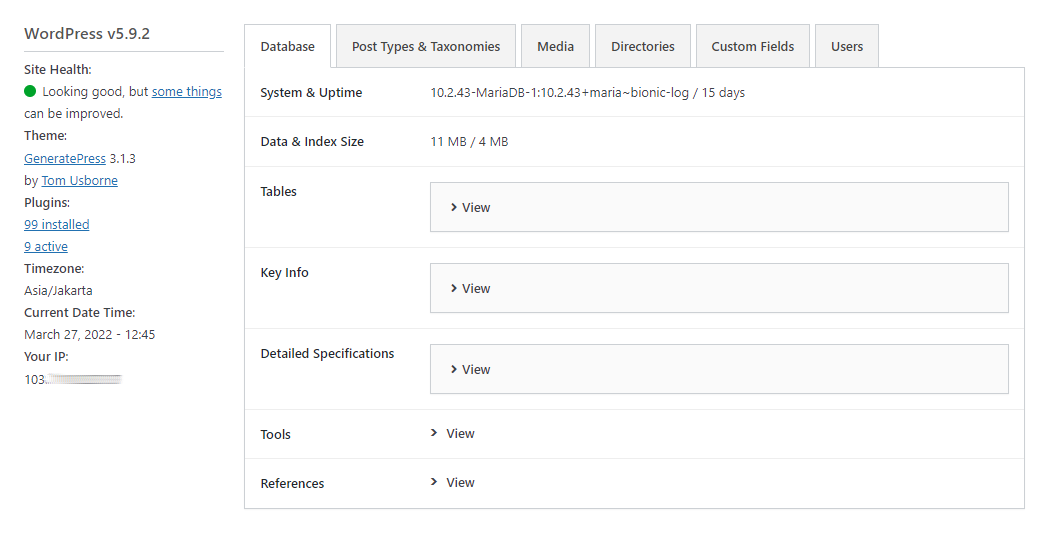
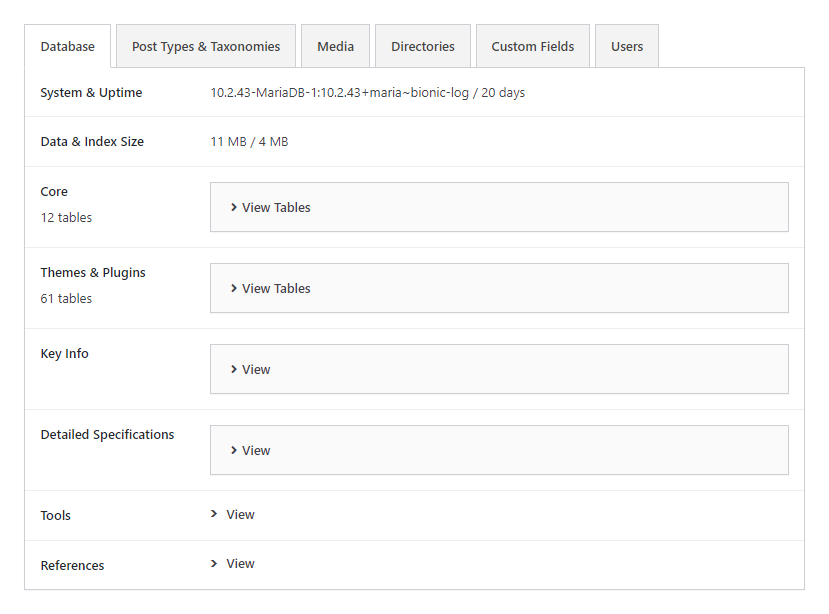
v2.2.0 release
Update screenshot-2.png

diff --git a/system-dashboard.php b/system-dashboard.php
@@ -16,7 +16,7 @@
  * Plugin Name:       System Dashboard
  * Plugin URI:        https://wordpress.org/plugins/system-dashboard/
  * Description:       Centralized dashboard to monitor various WordPress components, stats and data, including the server.
- * Version:           2.1.3
+ * Version:           2.2.0
  * Author:            Bowo
  * Author URI:        https://bowo.io
  * License:           GPL-2.0+
@@ -35,7 +35,7 @@ if ( ! defined( 'WPINC' ) ) {
  * Start at version 1.0.0 and use SemVer - https://semver.org
  * Rename this for your plugin and update it as you release new versions.
  */
-define( 'SYSTEM_DASHBOARD_VERSION', '2.1.3' );
+define( 'SYSTEM_DASHBOARD_VERSION', '2.2.0' );
 
 /**
  * The code that runs during plugin activation.

diff --git a/README.md b/README.md
@@ -5,7 +5,7 @@ Donate link: https://paypal.me/qriouslad
 Tags: system monitor, wordpress components, action filter hooks, server info, developer  
 Requires at least: 4.8  
 Tested up to: 5.9.2  
-Stable tag: 2.1.3  
+Stable tag: 2.2.0  
 Requires PHP: 5.6  
 License: GPLv2 or later  
 License URI: http://www.gnu.org/licenses/gpl-2.0.html
@@ -43,7 +43,8 @@ To preview the module screenshots more easily, please scroll down the [github re
 * Uptime
 * Data size
 * Index size
-* List of tables and size of each one
+* List of WP core tables with data/index size and number of rows/records of each table
+* List of tables created/used by themes and plugins with the origin theme/plugin, data/index size and number of rows/records of each table
 * Key database info, e.g. innodb_buffer_pool_size
 * Detailed specifications
 
@@ -239,6 +240,13 @@ To preview the module screenshots more easily, please scroll down the [github re
 System Dashboard was built with: [WordPress Plugin Boilerplate](https://github.com/devinvinson/WordPress-Plugin-Boilerplate/) | [wppb.me](https://wppb.me/) | [CodeStar framework](https://github.com/Codestar/codestar-framework)
 
 ## Changelog
+
+### 2.2.0 (April 2022)
+
+* Database: split tables into WP core vs themes & plugins and add counter for each category
+* Database: add character set and collation info in the Key Info section
+* Database: add default WP core tables for multisite if on a multisite
+* Database: add detection of and link to origin theme/plugin for non-core tables
 
 ### 2.1.3 (March 2022)
 
